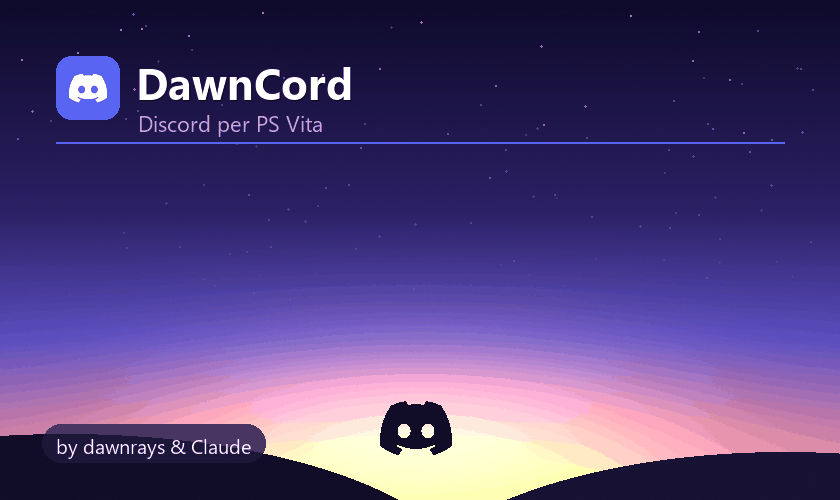
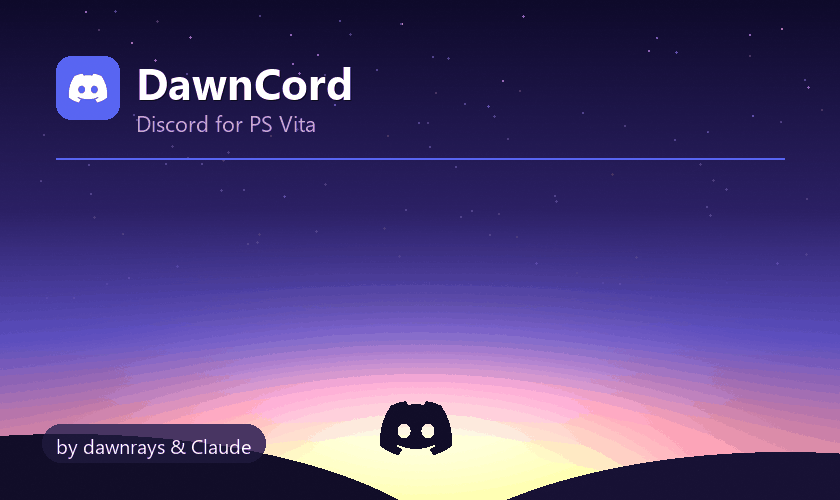
Fix the v0.28 startup crash: probe font files before handing them to vita2d
vita2d_load_font_file returns a "valid" font even when the file doesn't
exist (the face opens lazily at first use), so loading the ux0 user font
on a console that has none produced a font that data-aborted inside
FreeType at the very first ui_draw_status. The hardware dump named it
precisely: generic_font_draw_text via ui_text_width via ui_draw_status.
Fonts are now probed first (file exists + real TTF/OTF magic); missing
or bogus files fall through to the bundled Inter, then to PGF.

LiveArea: subtitle in English and flush with the title, divider moved
clear of the bubble.

Changed region(s): [[0.0619, 0.21, 0.9286, 0.33]]

diff --git a/vita-client/src/ui.c b/vita-client/src/ui.c
@@ -78,15 +78,37 @@ int ui_hit_image(int x, int y, char *url_out, int out_size)
     return 0;
 }
 
+/* vita2d_load_font_file "succeeds" even when the file doesn't exist: the
+   face is only opened lazily at first draw, which then data-aborts inside
+   FreeType (hardware dump: generic_font_draw_text via ui_draw_status).
+   So probe the file ourselves: it must exist and start with a real
+   TTF/OTF magic before vita2d gets to see it. */
+static vita2d_font *try_load_font(const char *path)
+{
+    FILE *f = fopen(path, "rb");
+    if (!f)
+        return NULL;
+    unsigned char magic[4] = {0};
+    size_t n = fread(magic, 1, 4, f);
+    fclose(f);
+    int ok = n == 4 &&
+        ((magic[0] == 0x00 && magic[1] == 0x01 &&
+          magic[2] == 0x00 && magic[3] == 0x00) ||       /* TrueType */
+         memcmp(magic, "OTTO", 4) == 0 ||                /* CFF/OTF  */
+         memcmp(magic, "true", 4) == 0 ||
+         memcmp(magic, "ttcf", 4) == 0);
+    return ok ? vita2d_load_font_file(path) : NULL;
+}
+
 void ui_init(void)
 {
     vita2d_init();
     vita2d_set_clear_color(COLOR_BG);
     /* Font: the user's override first, then the Inter bundled in the VPK,
        and system PGF only if both are missing. */
-    ttf = vita2d_load_font_file("ux0:data/dawncord/font.ttf");
+    ttf = try_load_font("ux0:data/dawncord/font.ttf");
     if (!ttf)
-        ttf = vita2d_load_font_file("app0:font.ttf");
+        ttf = try_load_font("app0:font.ttf");
     font = vita2d_load_default_pgf();
 
     /* Required before any common dialog (IME keyboard) is opened: without

diff --git a/tools/make_livearea.py b/tools/make_livearea.py
@@ -182,8 +182,10 @@ else:
 bg.alpha_composite(rounded(src.resize((64, 64), Image.LANCZOS), 15), (56, 56))
 d.text((137, 53), "DawnCord", font=font(44), fill=(10, 10, 25, 160))  # shadow
 d.text((136, 52), "DawnCord", font=font(44), fill=(255, 255, 255, 255))
-d.text((138, 108), "Discord per PS Vita", font=font(22, bold=False), fill=SUBTLE + (255,))
-d.line([(56, 142), (784, 142)], fill=BLURPLE + (120,), width=2)
+# Subtitle flush with the D of the title; app language is English.
+d.text((136, 108), "Discord for PS Vita", font=font(22, bold=False), fill=SUBTLE + (255,))
+# Divider well clear of the bubble, breathing room hardware-requested.
+d.line([(56, 158), (784, 158)], fill=BLURPLE + (120,), width=2)
 
 # Credit in the bottom strip, on a dark pill so it reads on any artwork,
 # lifted off the bottom edge for the same crop reason.